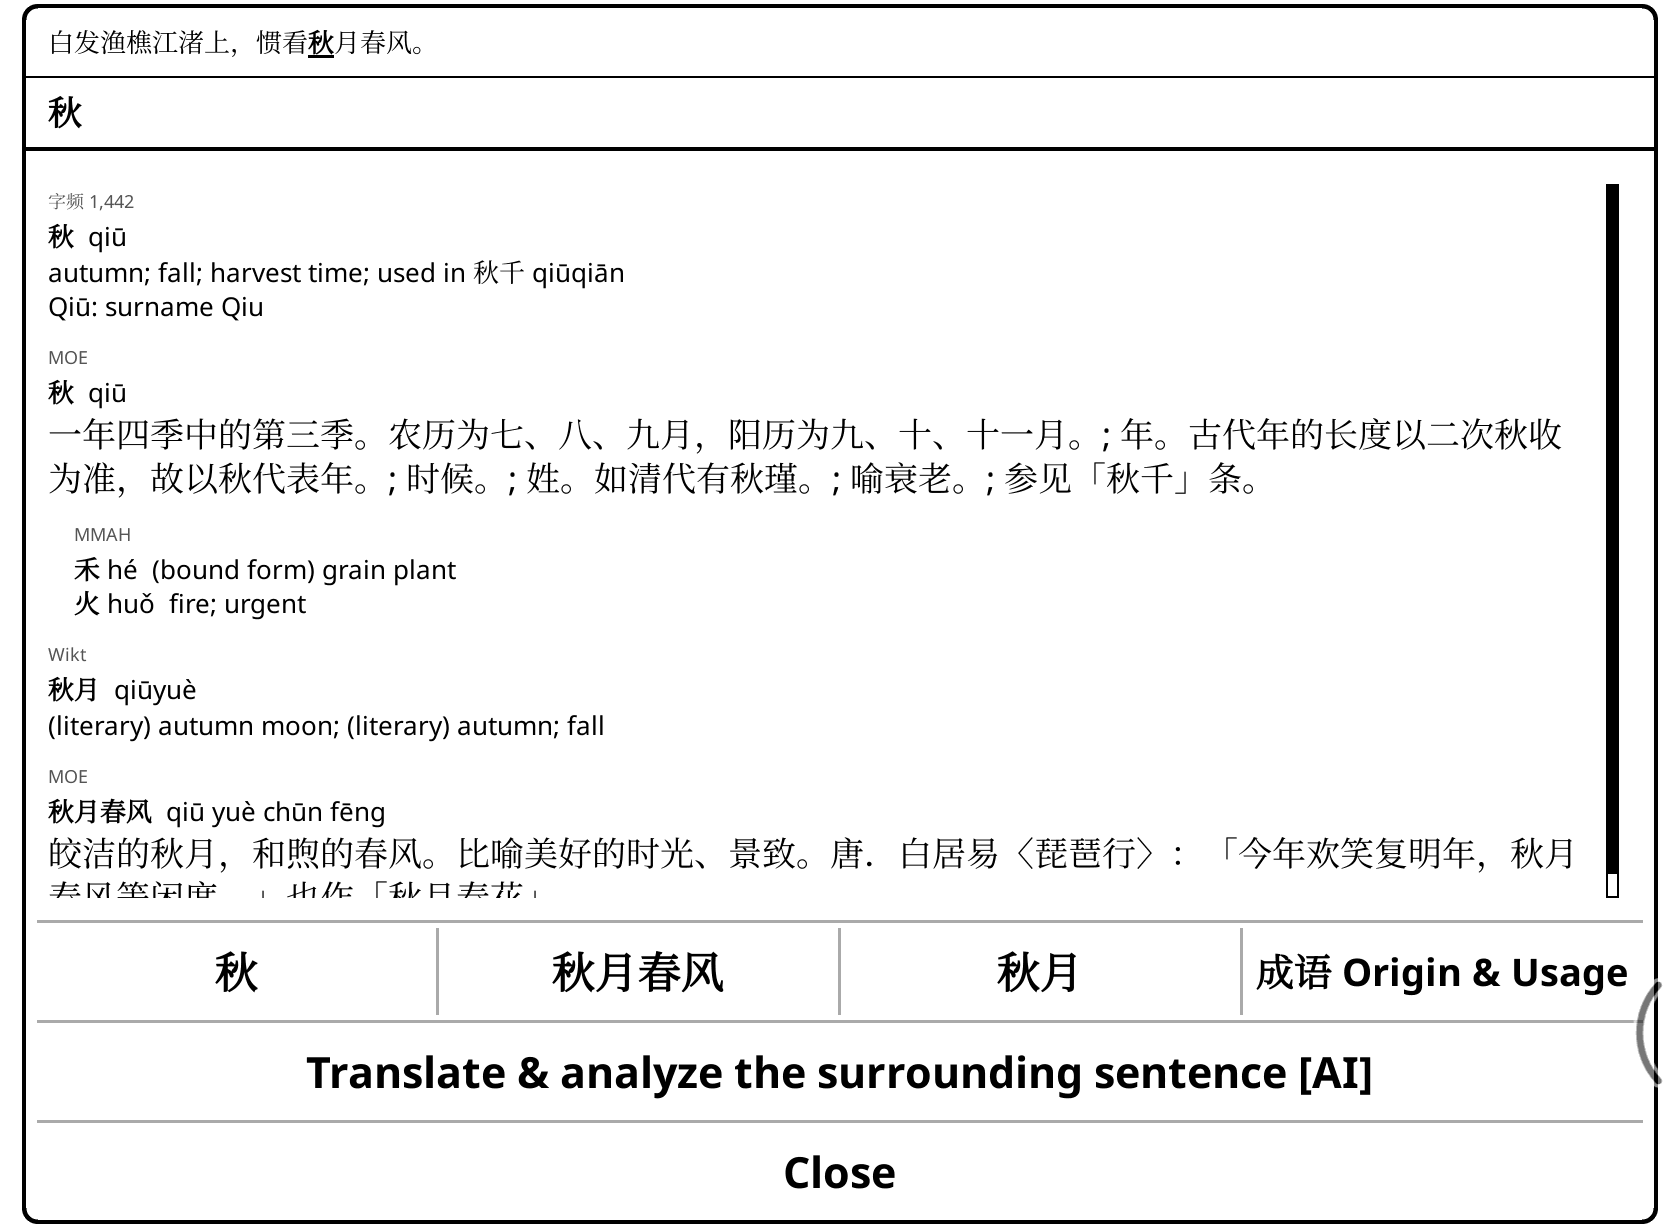
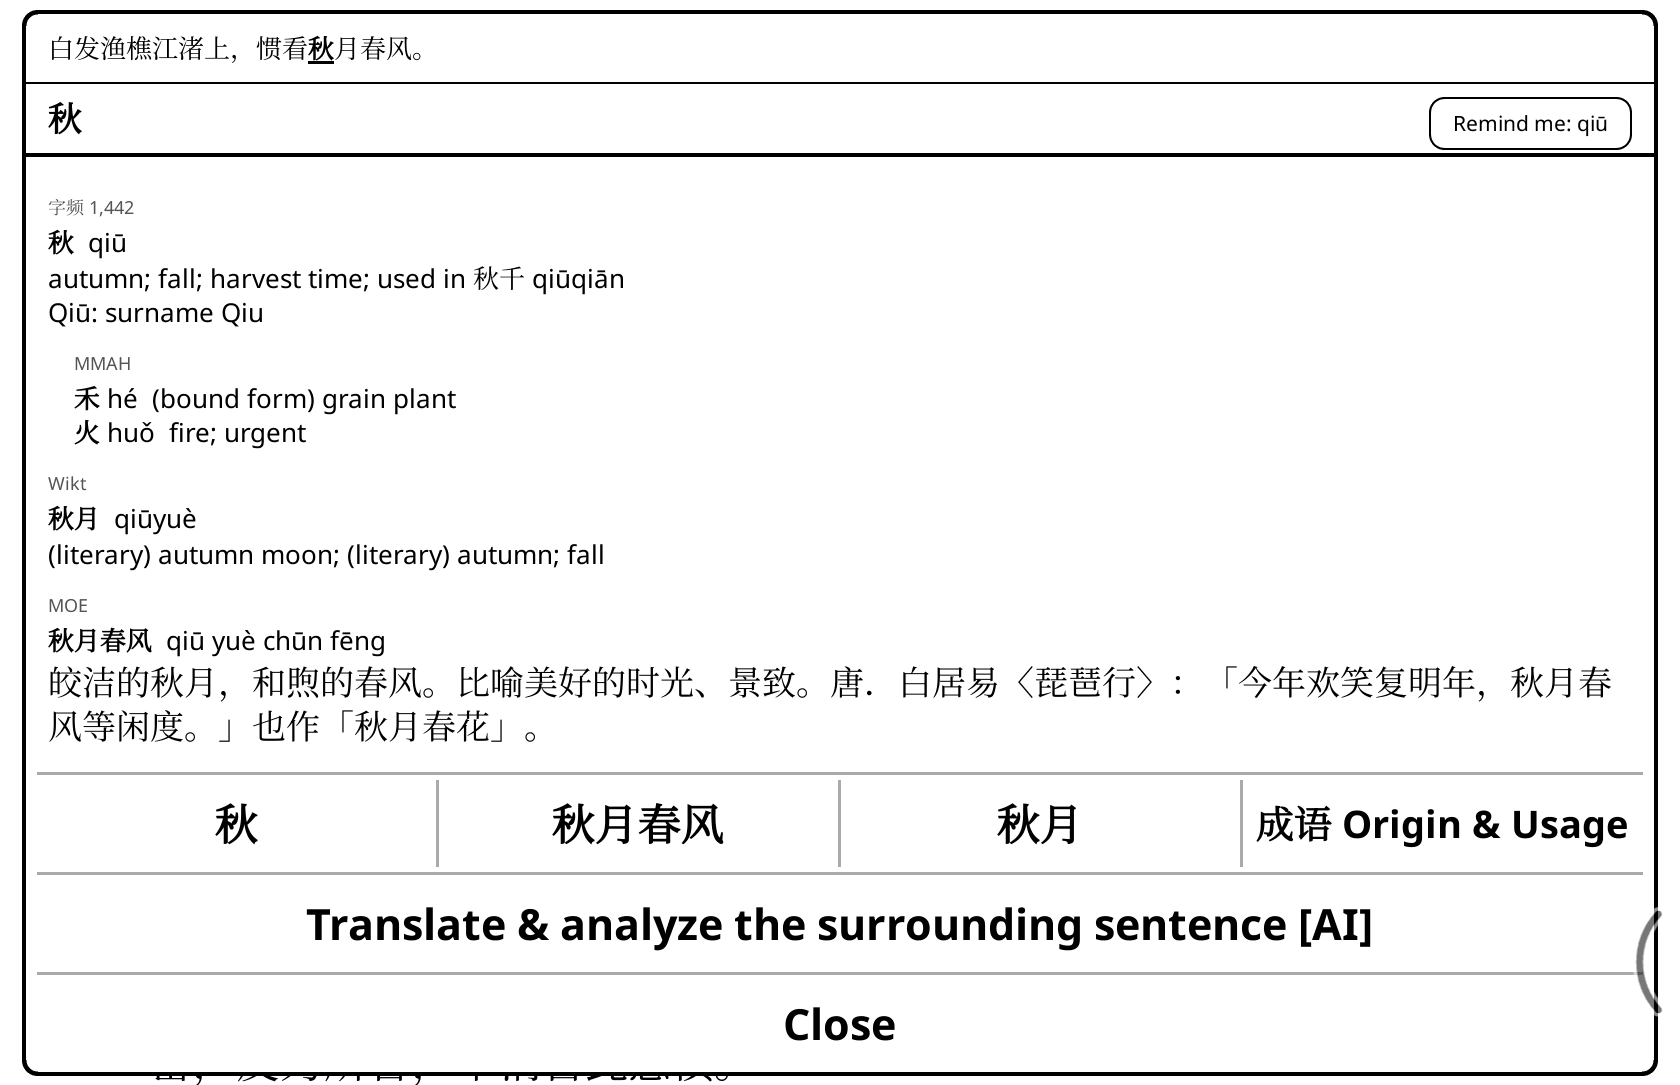
README shots retaken with the defaults: MOE single characters on Fallback (#27)
Eight popups no longer show MOE Always; expectations, taps (Origin & Usage,
nested 欢) and crops updated; page lists include 2.7.0's repeats. The 秋
popup no longer scrolls. Shots pin MOE chars/words to fallback.

Changed region(s): [[0.0, 0.0, 0.9905, 1.0], [0.3095, 0.3346, 0.5571, 0.3954], [0.4333, 0.6083, 0.681, 0.6387]]

diff --git a/tools/make_screenshots.py b/tools/make_screenshots.py
@@ -81,9 +81,9 @@ if os.environ.get("SHOT_FONT"):
 # characters on screen, and where to open the book.
 PAGES = {
     "sg1": dict(ch=1, first="第一回", last="中涓自此愈横。", xp="/body/DocFragment[1]/body/h1/text().0",
-                drawn="樵=qiáo 渚=zhǔ 锢=gù 宦=huàn 涓=juān"),
+                drawn="樵=qiáo 渚=zhǔ 锢=gù 宦=huàn 宦=huàn 涓=juān"),
     "sg2": dict(ch=1, first="建宁二年四月望日", last="能呼风唤雨，号为“太平道", xp="/body/DocFragment[1]/body/p[9]/text().0",
-                drawn="蟠=pán 臾=yú 雹=báo 邕=yōng 霓=ní 谞=xū 蹇=jiǎn 恽=yùn 藜=lí 讫=qì"),
+                drawn="蟠=pán 臾=yú 雹=báo 邕=yōng 霓=ní 邕=yōng 谞=xū 蹇=jiǎn 恽=yùn 藜=lí 讫=qì"),
     "kyj13": dict(ch=2, first="幸亏荐头的情面大", last="引得众人都哄笑起来；店内外充满",
                   xp="/body/DocFragment[2]/body/p[5]/text().91", drawn="茴=huí"),
     "kyj14": dict(ch=2, first="了快活的空气。", last="我略略点一点头。他",
@@ -137,33 +137,33 @@ SHOTS = {
     # 密, two thirds into the page's longest sentence: the popup's context
     # line shows text on both sides of it.
     "main": dict(page="sg1", taps=[("密", 1, (172, 1150), [
-        "**密**  mì", "[MOE] Always\n  **密**  mì", "**宓** mì  still; silent  → sound (same sound)", "**山** shān  mountain  → meaning",
+        "**密**  mì", "**宓** mì  still; silent  → sound (same sound)", "**山** shān  mountain  → meaning",
         "[Wikt]", "**不密**  bùmì", "(literary) not well thought out; (literary) not secret"])],
-        frames=[(1, (117, 1185))]),
+        frames=[(1, (100, 1185))]),
     "context": dict(page="kyj14", taps=[("间", 1, (773, 500), [
-        "**间**  jiàn · likely here", "[MOE] Always\n  **间**  jiàn", "**间或**  jiànhuò · decides 间's reading"])],
-        frames=[(1, (95, 1167))]),
+        "**间**  jiàn · likely here", "**间或**  jiànhuò · decides 间's reading"])],
+        frames=[(1, (178, 1085))]),
     "components": dict(page="kyj13", taps=[("茴", 1, (988, 790), [
-        "**茴**  huí", "[MOE] Always\n  **茴**  huí", "**艹** cǎo  grass; plant (草字头)  → meaning",
+        "**茴**  huí", "**艹** cǎo  grass; plant (草字头)  → meaning",
         "**回** huí  to go back; to return  → sound (same sound)", "**茴香豆**  huíxiāngdòu"])],
-        frames=[(1, (108, 1155))]),
+        frames=[(1, (168, 1094))]),
     "traditional": dict(page="aq59", taps=[("观", 1, (170, 965), [
-        "**观**  guān · likely here", "[MOE] Always\n  **观**  guān", "traditional 觀:", "**雚** guàn", "→ sound (same sound)",
+        "**观**  guān · likely here", "traditional 觀:", "**雚** guàn", "→ sound (same sound)",
         "simplified: 雚 → 又", "**观音**  Guānyīn · decides 观's reading"])],
-        frames=[(1, (61, 1201))]),
+        frames=[(1, (144, 1119))]),
     "chengyu": dict(page="kyj13", taps=[("也", 3, (170, 590), [
-        "[MOE] Always\n  **也**  yě", "**之乎者也**  zhīhūzhěyě", "[新华] 这四个字都是文言虚词"]), ("出处", None, (1440, 980), [])],
-        frames=[(1, (28, 1235)), (2, (20, 700))]),
+        "**之乎者也**  zhīhūzhěyě", "[新华] 这四个字都是文言虚词"]), ("出处", None, (1440, 890), [])],
+        frames=[(1, (110, 1152)), (2, (20, 700))]),
     "labels": dict(page="sg1", taps=[("秋", 1, (775, 665), [
-        "**秋**  qiū", "[MOE] Always\n  **秋**  qiū", "[MMAH]", "  [MOE]\n  **秋月春风**", "**秋月春风**  qiū yuè chūn fēng", "[Wikt]", "**秋月**  qiūyuè"])],
-        frames=[(1, (18, 1245))]),
+        "**秋**  qiū", "[MMAH]", "  [MOE]\n  **秋月春风**", "**秋月春风**  qiū yuè chūn fēng", "[Wikt]", "**秋月**  qiūyuè"])],
+        frames=[(1, (89, 1174))]),
     # A character of the popup's own text: 欢, inside MOE's quotation of 〈琵琶行〉,
     # opens its popup on top; the context line is the quotation (the device's
     # log must give it as the sentence), the 欢 below underlined.
-    "nested": dict(page="sg1", taps=[("秋", 1, (775, 665), ["[MOE] Always\n  **秋**  qiū", "  [MOE]\n  **秋月春风**  qiū yuè chūn fēng"]),
-                                     ("欢", "nested", (1322, 872), ["「今年欢笑复明年，秋月春风等闲度。」"])],
-                   frames=[(2, (18, 1245))]),
-    "translate": dict(page="kyj13", taps=[("窃", 1, (1465, 995), ["**窃**  qiè", "[MOE] Always\n  **窃**  qiè"])],
+    "nested": dict(page="sg1", taps=[("秋", 1, (775, 665), ["  [MOE]\n  **秋月春风**  qiū yuè chūn fēng"]),
+                                     ("欢", "nested", (1322, 772), ["「今年欢笑复明年，秋月春风等闲度。」"])],
+                   frames=[(2, (89, 1174))]),
+    "translate": dict(page="kyj13", taps=[("窃", 1, (1465, 995), ["**窃**  qiè"])],
         frames=[(1, (15, 1160))]),
     # The same popup, then its Translate & Analyze button (at `koassistant`):
     # KOAssistant's reply, its viewer unrolled: the first page, then the last
@@ -264,7 +264,8 @@ def settings_variant(original, pinyin=True, threshold=None):
     keys = {"chinesehelper_threshold": THRESHOLD if threshold is None else threshold, "chinesehelper_pinyin_enabled": "true" if pinyin else "false",
             "chinesehelper_popup_enabled": "true", "chinesehelper_popup_text_pct": 60,
             "chinesehelper_chinese_text_pct": 130, "chinesehelper_char_rank": "true",
-            "chinesehelper_labels": '"fallback"', "chinesehelper_uncertain": '"both"',
+            "chinesehelper_labels": '"fallback"', "chinesehelper_moe_chars": '"fallback"', "chinesehelper_moe_words": '"fallback"',
+            "chinesehelper_uncertain": '"both"',
             "chinesehelper_components": "true", "chinesehelper_popup_context": "true",
             "chinesehelper_page_underline": "true",
             "chinesehelper_match_book_font": "false" if os.environ.get("SHOT_MATCH_FONT") == "false" else "true",

diff --git a/README.md b/README.md
@@ -20,23 +20,23 @@ Kobo, Kindle, PocketBook, and Android devices such as Boox.
 
 KOReader 中文阅读插件：点一个字，即可看到它在本句中组成的词及其释义，并标出它在此处的读音；还可在字上方显示拼音，从只标生僻字到每个字都标（学习模式），学会一个读音点一下即可隐去，初学者和熟练读者都适用。
 
-![The opening of 三国演义 第一回 on a Boox Go 7: the chapter title, then the popup on 密. At its top, the line 时有宦官曹节等弄权，窦武、陈蕃谋诛之，作事不密，反为所害，中涓自此愈横。 with 密 in bold and underlined; then 字频 646 in small grey, 密 mì, "dense; close; … (bound form) secret; confidential …", "Mì: surname Mi"; MOE's entry for 密 mì in larger Chinese type, labelled MOE: 不稀疏的。; 不宣露的。; …; 暗中。; its parts, labelled Wikt: 宓 mì still; silent → sound (same sound), 山 shān mountain → meaning; then 不密 bùmì "(literary) not well thought out; (literary) not secret", labelled Wikt; buttons 密 and 不密, then Translate & analyze the surrounding sentence [AI] on its own row, then Close at the bottom. Below the popup, the end of the paragraph's last line, 密，反为所害，中涓自此愈横。, with 密 underlined on the page](docs/main.png)
+![The opening of 三国演义 第一回 on a Boox Go 7: the chapter title, then the popup on 密. At its top, the line 时有宦官曹节等弄权，窦武、陈蕃谋诛之，作事不密，反为所害，中涓自此愈横。 with 密 in bold and underlined; the title bar, 密 on the left and a Remind me: mì button on the right; then 字频 646 in small grey, 密 mì, "dense; close; … (bound form) secret; confidential …", "Mì: surname Mi"; its parts, labelled Wikt: 宓 mì still; silent → sound (same sound), 山 shān mountain → meaning; then 不密 bùmì "(literary) not well thought out; (literary) not secret", labelled Wikt; buttons 密 and 不密, then Translate & analyze the surrounding sentence [AI] on its own row, then Close at the bottom. Below the popup, the end of the paragraph's last line, 密，反为所害，中涓自此愈横。, with 密 underlined on the page](docs/main.png)
 
 <table>
 <tr>
 <td width="50%"><img src="docs/off-on.png" alt="The 临江仙 that opens 三国演义, pinyin off (top) and on (bottom): with it on, only 樵 qiáo and 渚 zhǔ get pinyin, the rest of the page stays clean"><br><a href="#usage"><b>Pinyin only above the hard characters</b></a>, at the level you choose (here the default: outside the 3,500 most common)</td>
-<td width="50%"><img src="docs/context.png" alt="Popup for 间 in 孔乙己's 虽然间或没有现钱: at the top the line 但他在我们店里，品行却比别人都好，就是从不拖欠；虽然间或没有现钱，… with 间 marked; 字频 113, then 间 jiàn · likely here, jiān listed after it; MOE's entry for 间 in Chinese, jiàn then jiān; its parts 门 and 日 labelled MMAH; 间或 jiànhuò · decides 间's reading, occasionally; now and then"><br><a href="#the-popup"><b>The reading it has here</b></a>, and the word that decides it: 间 is <i>jiàn</i> in 间或</td>
+<td width="50%"><img src="docs/context.png" alt="Popup for 间 in 孔乙己's 虽然间或没有现钱: at the top the line 但他在我们店里，品行却比别人都好，就是从不拖欠；虽然间或没有现钱，… with 间 marked; 字频 113, then 间 jiàn · likely here, jiān listed after it; its parts 门 and 日 labelled MMAH; 间或 jiànhuò · decides 间's reading, occasionally; now and then"><br><a href="#the-popup"><b>The reading it has here</b></a>, and the word that decides it: 间 is <i>jiàn</i> in 间或</td>
 </tr>
 <tr>
-<td><img src="docs/components.png" alt="Popup for 茴 in 孔乙己's 要一碟茴香豆: at the top the line 他不回答，对柜里说：“温两碗酒，要一碟茴香豆。” with 茴 marked; 字频 4,633, then 茴 huí; MOE's 茴 huí 参见「茴香」条。; its parts, labelled Wikt: 艹 cǎo grass; plant (草字头) → meaning, 回 huí to go back → sound (same sound); then 茴香豆 and 茴香"><br><a href="#character-components"><b>What each character is made of</b></a>: 茴 is 艹 for the meaning and 回 <i>huí</i> for the sound</td>
-<td><img src="docs/traditional.png" alt="Popup for 观 in 阿Q正传's 观音娘娘: at the top the line …而且又不见了观音娘娘座前的一个宣德炉。 with 观 marked; 字频 407, then 观 guān · likely here; MOE's entry for 观, cut to two lines and ending in a small grey [Tap to show more]; traditional 觀: 雚 guàn (archaic) stork; heron → sound (same sound), 見 jiàn see → meaning, simplified: 雚 → 又; 观音 Guānyīn · decides 观's reading"><br><a href="#character-components"><b>Parts the simplification hid</b></a>: 观 is read through 觀, 雚 <i>guàn</i> → sound</td>
+<td><img src="docs/components.png" alt="Popup for 茴 in 孔乙己's 要一碟茴香豆: at the top the line 他不回答，对柜里说：“温两碗酒，要一碟茴香豆。” with 茴 marked; 字频 4,633, then 茴 huí (bound form) fennel; its parts, labelled Wikt: 艹 cǎo grass; plant (草字头) → meaning, 回 huí to go back → sound (same sound); then 茴香豆 and 茴香"><br><a href="#character-components"><b>What each character is made of</b></a>: 茴 is 艹 for the meaning and 回 <i>huí</i> for the sound</td>
+<td><img src="docs/traditional.png" alt="Popup for 观 in 阿Q正传's 观音娘娘: at the top the line …而且又不见了观音娘娘座前的一个宣德炉。 with 观 marked; 字频 407, then 观 guān · likely here, with guàn and Guàn after it; traditional 觀: 雚 guàn (archaic) stork; heron → sound (same sound), 見 jiàn see → meaning, simplified: 雚 → 又; 观音 Guānyīn · decides 观's reading"><br><a href="#character-components"><b>Parts the simplification hid</b></a>: 观 is read through 觀, 雚 <i>guàn</i> → sound</td>
 </tr>
 <tr>
-<td><img src="docs/chengyu.png" alt="Popup for 也 in 孔乙己's 满口之乎者也: at the top the line 他对人说话，总是满口之乎者也，教人半懂不懂的。 with 也 marked; then 字频 38, 也 yě; MOE's entry for 也 in larger type, cut to two lines and ending in a small grey [Tap to show more]; its Wikt line pictogram (象形), 满口之乎者也 and 之乎者也 from CC-CEDICT, 之乎者也 with a Chinese line labelled 新华: 这四个字都是文言虚词，讽刺人说话喜欢咬文嚼字。也形容半文不白的话或文章。; a 成语 Origin &amp; Usage button"><br><a href="#chengyu"><b>Chengyu explained</b></a>: 之乎者也 with Xinhua's line (optional file) …</td>
+<td><img src="docs/chengyu.png" alt="Popup for 也 in 孔乙己's 满口之乎者也: at the top the line 他对人说话，总是满口之乎者也，教人半懂不懂的。 with 也 marked; then 字频 38, 也 yě; its Wikt line pictogram (象形), 满口之乎者也 and 之乎者也 from CC-CEDICT, 之乎者也 with a Chinese line labelled 新华: 这四个字都是文言虚词，讽刺人说话喜欢咬文嚼字。也形容半文不白的话或文章。; a 成语 Origin &amp; Usage button"><br><a href="#chengyu"><b>Chengyu explained</b></a>: 之乎者也 with Xinhua's line (optional file) …</td>
 <td><img src="docs/chengyu-2.png" alt="The Origin &amp; Usage view for 之乎者也 from 新华成语: 释义; 出处 宋·文莹《湘山野录》：“之乎者也，助得甚事？”; 例句 他对人说话，总是满口之乎者也，叫人半懂不懂的。"><br>… and its <a href="#chengyu"><b>Origin &amp; Usage</b></a> view: the classical source and an example from this same passage of 孔乙己</td>
 </tr>
 <tr>
-<td><img src="docs/labels.png" alt="Popup for 秋 in the 临江仙's 惯看秋月春风: at the top the line 白发渔樵江渚上，惯看秋月春风。 with 秋 marked; 字频 1,442, then 秋 qiū from CC-CEDICT; MOE's entry for 秋 in larger type; its parts 禾 and 火 labelled MMAH; 秋月 labelled Wikt; last, 秋月春风 labelled MOE with its Chinese definition in larger type, its second line cut off where the popup scrolls; a 成语 Origin &amp; Usage button"><br><a href="#fallback-dictionaries"><b>Several dictionaries, each labelled</b></a>: CC-CEDICT, then MOE (optional) for 秋 in larger type, Wiktionary for 秋月, and last MOE for 秋月春风</td>
+<td><img src="docs/labels.png" alt="Popup for 秋 in the 临江仙's 惯看秋月春风: at the top the line 白发渔樵江渚上，惯看秋月春风。 with 秋 marked; 字频 1,442, then 秋 qiū from CC-CEDICT; its parts 禾 and 火 labelled MMAH; 秋月 labelled Wikt; last, 秋月春风 labelled MOE with its Chinese definition in larger type, quoting 白居易's 〈琵琶行〉; a 成语 Origin &amp; Usage button"><br><a href="#fallback-dictionaries"><b>Several dictionaries, each labelled</b></a>: CC-CEDICT for 秋, Wiktionary for 秋月, and MOE (optional) for 秋月春风, in larger type</td>
 <td><img src="docs/translate-result.png" alt="KOAssistant's Translate &amp; Analyze viewer, titled with the model gemini-3.5-flash-lite, its whole reply shown as its two pages, joined by a dashed line. Highlighted text: 孔乙己便涨红了脸，额上的青筋条条绽出，争辩道：“窃书不能算偷……窃书！ Translation: Kong Yiji immediately blushed, the veins on his forehead bulging out in cords, and argued, &quot;Book-stealing cannot be considered theft... Book-stealing!&quot; Analysis, one chunk per line: 涨红了脸 (zhǎng hóng le liǎn) &quot;swelled/flushed red [his] face&quot;, resultative compound; 额上的 (é shàng de) &quot;of the forehead's&quot;; 青筋 (qīng jīn) &quot;blue/green tendons/veins&quot;; 条条 (tiáo tiáo) &quot;strip by strip / cord by cord&quot;, reduplicated measure word; 绽出 (zhàn chū) &quot;burst/bulge out&quot;; 争辩道 (zhēng biàn dào) &quot;argued and said&quot;, verb + quotative marker 道; 窃书 (qiè shū) &quot;stealing books&quot;, classical/literary compound (窃 qiè meaning to steal covertly) used by Kong Yiji to euphemize and intellectualize his act; 不能算 (bù néng suàn) &quot;cannot be counted/considered&quot;; 偷 (tōu) &quot;steal&quot;, colloquial term for theft, contrasted sharply with the literary qiè. Below, the viewer's buttons: Reply, Copy, Save to Note, Notebook, Pin, Close and others"><br><a href="#translating-the-sentence"><b>Translate &amp; Analyze the sentence</b></a> with KOAssistant: a translation and a chunk-by-chunk breakdown of 孔乙己's 窃书不能算偷, down to why he says 窃 and not 偷 (your own AI provider, while Wi-Fi is on)</td>
 </tr>
 <tr>
@@ -283,7 +283,7 @@ font chosen in KOReader's font menu, not a font the book embeds or sets in its C
 that font lacks comes from KOReader's usual fallback fonts. For a PDF, or when the font cannot be
 loaded, the popup uses the UI font. Turned off, the popup is exactly as before.
 
-![A tall popup for 观 in 阿Q正传: at the top the line 尼姑待他们走后，定了神来检点，龙牌固然已经碎在地上了，而且又不见了观音娘娘座前的一个宣德炉。 with 观 in bold and underlined, then 字频 407 and 观 guān · likely here, MOE's entry for 观 collapsed to two lines with [Tap to show more], its traditional form 觀's parts, and 观音 Guānyīn · decides 观's reading](docs/traditional.png)
+![A popup for 观 in 阿Q正传: at the top the line 尼姑待他们走后，定了神来检点，龙牌固然已经碎在地上了，而且又不见了观音娘娘座前的一个宣德炉。 with 观 in bold and underlined, then 字频 407 and 观 guān · likely here with its other readings, its traditional form 觀's parts, and 观音 Guānyīn · decides 观's reading](docs/traditional.png)
 
 ### Tapping a character in the popup
 
@@ -294,7 +294,7 @@ around it in that text that contains it), and stays underlined in the popup belo
 one is open. Nothing else in the popup is tappable: not the headlines (the character or word
 the entry is for), the components, or the English glosses.
 
-![Popup for 秋 in the 临江仙, and on top of it the popup for 欢, tapped in MOE's quotation of 〈琵琶行〉: its line at the top is 「今年欢笑复明年，秋月春风等闲度。」 with 欢 marked, then 字频 443, 欢 huān, MOE's entry for 欢, its traditional form 歡's parts, 欢笑 huānxiào, and the buttons 欢 and 欢笑, then Close at the bottom (no Translate in a popup opened from a popup)](docs/nested.png)
+![Popup for 秋 in the 临江仙, and on top of it the popup for 欢, tapped in MOE's quotation of 〈琵琶行〉: its line at the top is 「今年欢笑复明年，秋月春风等闲度。」 with 欢 marked, then 字频 443, 欢 huān, its traditional form 歡's parts, 欢笑 huānxiào, and the buttons 欢 and 欢笑, then Close at the bottom (no Translate in a popup opened from a popup)](docs/nested.png)
 
 - **Its text is the popup's, not the book's.** The line at the top is the sentence around the
   character in the popup text: cut at 。！？；, a line break, or a closing quote after one of
@@ -400,7 +400,7 @@ While Wi-Fi is on and connected, the popup from the page has one more button on 
 own (popups opened from a popup's text do not). It closes the
 popup and sends **the whole sentence containing the tapped character**:
 
-![Popup for 窃 at the top of the page, its line 孔乙己便涨红了脸，额上的青筋条条绽出，争辩道：“窃书不能算偷……窃书！ with 窃 marked; 字频 2,026, 窃 qiè to steal; secretly; (humble) I, MOE's entry for 窃 (盗取、偷。; 私下。…; 偷偷的。 and 「竊」的异体字。) labelled MOE, its parts 穴 xué and 切 qiè labelled MMAH, then a 窃 button, Translate & analyze the surrounding sentence [AI] and Close; above and below it the page of 孔乙己, the popup covering 窃's own line](docs/translate.png)
+![Popup for 窃 at the top of the page, its line 孔乙己便涨红了脸，额上的青筋条条绽出，争辩道：“窃书不能算偷……窃书！ with 窃 marked; 字频 2,026, 窃 qiè to steal; secretly; (humble) I, its parts 穴 xué and 切 qiè labelled MMAH, then a 窃 button, Translate & analyze the surrounding sentence [AI] and Close; above and below it the page of 孔乙己, the popup covering 窃's own line](docs/translate.png)
 
 - **With [KOAssistant](https://github.com/zeeyado/koassistant.koplugin) installed** (tested with
   0.23.0; the button uses its internals, so a later version may fall back to the built-in
